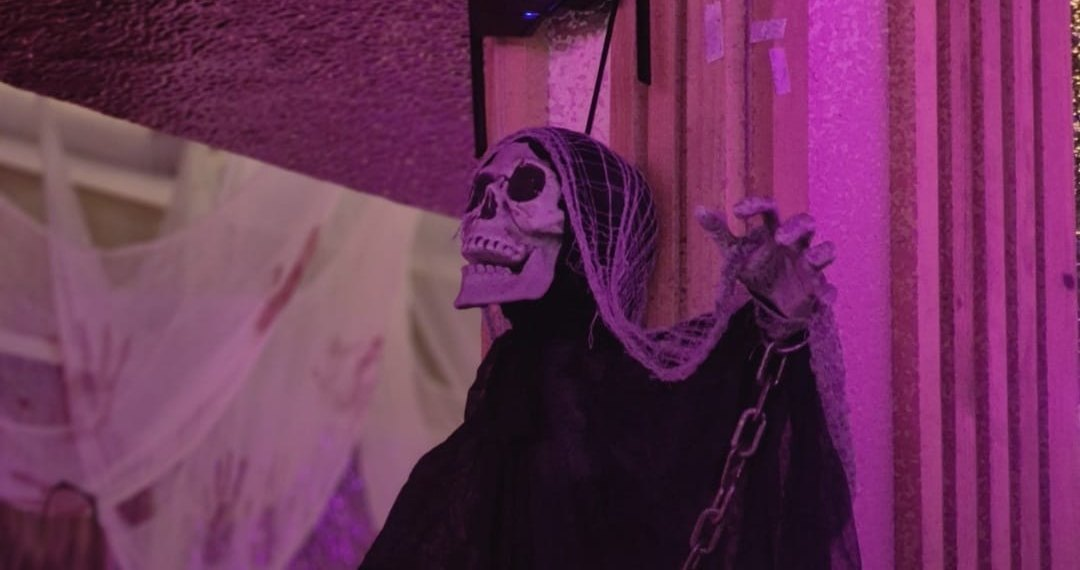
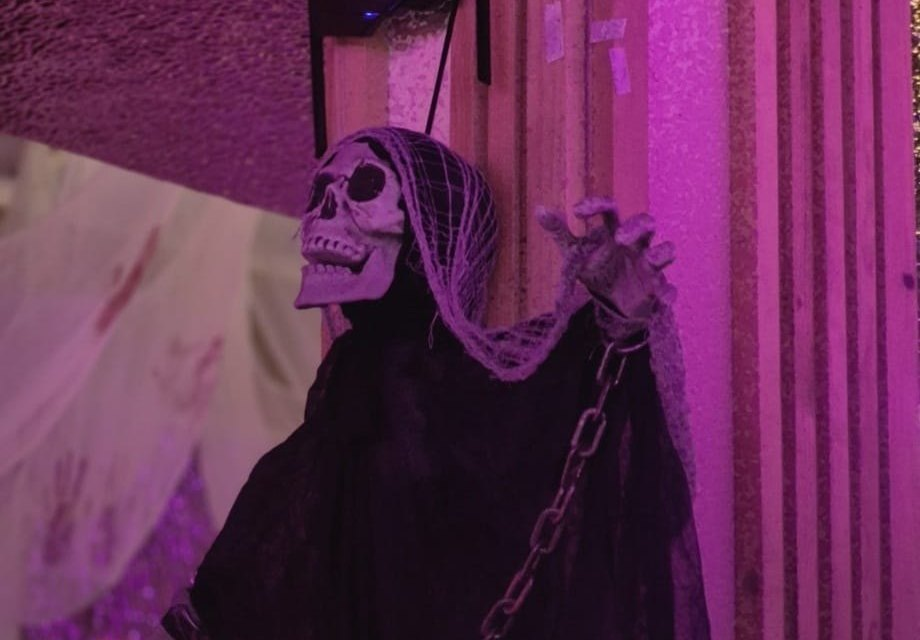
Fix preloader text overlap and image cropping; add new photos
- Preloader: only one status phrase is visible before JS loads (all five
  used to stack on slow connections), and phrase swaps no longer overlap
  when the counter jumps
- Re-crop the slide photos taller so subjects sit mid-frame, and add a
  Photo component that applies a per-image focal point (object-position)
  so faces stay in view in any container shape
- Add two new clean courtyard photos (photo-08/09) for the contact,
  team, career, services, case study and article images

diff --git a/components/sections/AboutBlocks.tsx b/components/sections/AboutBlocks.tsx
@@ -1,7 +1,7 @@
 "use client";
 
 import { useRef } from "react";
-import Image from "next/image";
+import Photo from "@/components/ui/Photo";
 import { gsap, useGSAP, reducedMotion } from "@/lib/gsap";
 import { BELIEFS } from "@/lib/content";
 import { SectionHead } from "../ui/PageHeader";
@@ -48,7 +48,7 @@ export function Impact() {
             </div>
           ))}
           <div className="impact__glass fx-up">
-            <Image src="/img/crop-07.jpg" alt="" fill sizes="(max-width: 900px) 100vw, 30vw" />
+            <Photo src="/img/crop-07.jpg" alt="" fill sizes="(max-width: 900px) 100vw, 30vw" />
             <div><b>Floor to feed</b><span>We build the moment, then we make it famous.</span></div>
           </div>
         </div>
@@ -60,7 +60,7 @@ export function Impact() {
 const TEAM = [
   { img: "/img/crop-02.jpg", role: "Strategy & planning" },
   { img: "/img/crop-06.jpg", role: "Experience & set-up" },
-  { img: "/img/crop-07.jpg", role: "Guest moments" },
+  { img: "/img/photo-09.jpg", role: "Guest moments" },
   { img: "/img/crop-03.jpg", role: "Styling & details" },
 ];
 
@@ -78,7 +78,7 @@ export function Team() {
           </div>
           {TEAM.map((t) => (
             <figure className="team__card fx-up" key={t.role}>
-              <div className="team__img"><Image src={t.img} alt={t.role} fill sizes="(max-width: 900px) 50vw, 20vw" /></div>
+              <div className="team__img"><Photo src={t.img} alt={t.role} fill sizes="(max-width: 900px) 50vw, 20vw" /></div>
               <figcaption><b>Team ARK</b><span>{t.role}</span></figcaption>
             </figure>
           ))}
@@ -102,7 +102,7 @@ export function Beliefs() {
   );
   return (
     <section className="beliefs" ref={root} data-theme="dark">
-      <div className="beliefs__bg"><Image src="/img/crop-05.jpg" alt="" fill sizes="100vw" /></div>
+      <div className="beliefs__bg"><Photo src="/img/crop-05.jpg" alt="" fill sizes="100vw" /></div>
       <div className="container beliefs__in">
         <div className="beliefs__head">
           <SectionHead title="What We Believe" align="split" sub="Five principles behind every venue we work with." />

diff --git a/lib/content.ts b/lib/content.ts
@@ -165,7 +165,7 @@ export const SERVICES: Service[] = [
     slug: "launches-relaunches",
     title: "Launches & Relaunches",
     category: "Strategy Service",
-    img: "/img/crop-07.jpg",
+    img: "/img/photo-08.jpg",
     lead: "Full house on day one",
     text: "New opening or a fresh chapter: one playbook from pre-launch buzz to a full house on day one.",
     items: ["Pre-launch teasers", "Influencer previews", "Opening-night experience"],
@@ -261,7 +261,7 @@ export const WORK: Work[] = [
     category: "Production",
     period: "Halloween season",
     img: "/img/crop-06.jpg",
-    cover: "/img/crop-07.jpg",
+    cover: "/img/photo-09.jpg",
     summary:
       "Good experiences take a team. A look at the planning, set-up and the people who turned the concept into a finished venue.",
     facts: [
@@ -278,7 +278,7 @@ export const WORK: Work[] = [
       "Set-up: our team handled the build, from the entrance installation to the last bat on the wall.",
       "Hand-over: a quick walkthrough so Vayu's staff knew the story behind the theme and could share it with guests.",
     ],
-    gallery: ["/img/crop-06.jpg", "/img/crop-02.jpg", "/img/crop-07.jpg"],
+    gallery: ["/img/crop-06.jpg", "/img/crop-02.jpg", "/img/photo-08.jpg"],
     outcome: ["A smooth opening with zero last-minute scrambling, and a team that could focus on hospitality."],
   },
 ];
@@ -418,7 +418,7 @@ export const POSTS: Post[] = [
     title: "From Floor to Feed: Turning Experiences into Content",
     excerpt: "Why the best hospitality content starts with something real happening on the floor.",
     category: "Content",
-    img: "/img/crop-07.jpg",
+    img: "/img/photo-08.jpg",
     read: "5 min read",
     body: [
       { h: "Content can't fix an empty moment", p: ["You can't edit your way to a great experience. If nothing special is happening in the venue, the feed will show it."] },

diff --git a/app/services/page.tsx b/app/services/page.tsx
@@ -1,5 +1,5 @@
 import type { Metadata } from "next";
-import Image from "next/image";
+import Photo from "@/components/ui/Photo";
 import PageHeader from "@/components/ui/PageHeader";
 import Intro from "@/components/sections/Intro";
 import ServicesList from "@/components/sections/ServicesList";
@@ -24,13 +24,13 @@ export default function ServicesPage() {
       <section className="bento">
         <div className="container bento__grid">
           <article className="bento__card bento__card--img fx-up tilt">
-            <Image src="/img/crop-04.jpg" alt="" fill sizes="(max-width: 900px) 100vw, 33vw" />
+            <Photo src="/img/crop-04.jpg" alt="" fill sizes="(max-width: 900px) 100vw, 33vw" />
             <div className="bento__shade" />
             <span className="bento__tag">Experience insight <i>↗</i></span>
             <div className="bento__bottom"><b>Floor to feed</b><span>Moments designed on site, then told online.</span></div>
           </article>
           <article className="bento__card bento__card--img fx-up tilt">
-            <Image src="/img/crop-02.jpg" alt="" fill sizes="(max-width: 900px) 100vw, 33vw" />
+            <Photo src="/img/crop-02.jpg" alt="" fill sizes="(max-width: 900px) 100vw, 33vw" />
             <div className="bento__shade" />
             <span className="bento__tag">Strategy <i>↗</i></span>
             <div className="bento__bottom"><b>Brand & venue growth</b><span>Discover the details, insights and USP that drive real bookings.</span></div>

diff --git a/components/sections/CareerBlocks.tsx b/components/sections/CareerBlocks.tsx
@@ -1,7 +1,7 @@
 "use client";
 
 import { useRef } from "react";
-import Image from "next/image";
+import Photo from "@/components/ui/Photo";
 import { gsap, useGSAP, reducedMotion } from "@/lib/gsap";
 import { JOBS } from "@/lib/content";
 import { SectionHead } from "../ui/PageHeader";
@@ -31,7 +31,7 @@ export function Positions() {
 const LIFE = [
   { img: "/img/crop-06.jpg", title: "On the floor", text: "We set up what we design. You'll be there when the lights go on." },
   { img: "/img/crop-02.jpg", title: "Ideas first", text: "Every project starts with imagination, a laptop and a good view." },
-  { img: "/img/crop-07.jpg", title: "Close to guests", text: "We talk to the people we're designing for, not just about them." },
+  { img: "/img/photo-08.jpg", title: "Close to guests", text: "We talk to the people we're designing for, not just about them." },
 ];
 
 export function LifeAtArk() {
@@ -59,7 +59,7 @@ export function LifeAtArk() {
         <div className="life__cards">
           {LIFE.map((l) => (
             <figure className="life__card" key={l.title}>
-              <div className="life__img"><Image src={l.img} alt={l.title} fill sizes="(max-width: 900px) 100vw, 45vw" /></div>
+              <div className="life__img"><Photo src={l.img} alt={l.title} fill sizes="(max-width: 900px) 100vw, 45vw" /></div>
               <figcaption><b>{l.title}</b><span>{l.text}</span></figcaption>
             </figure>
           ))}

diff --git a/components/sections/Moments.tsx b/components/sections/Moments.tsx
@@ -1,7 +1,7 @@
 "use client";
 
 import { useRef } from "react";
-import Image from "next/image";
+import Photo from "@/components/ui/Photo";
 import { gsap, useGSAP, reducedMotion } from "@/lib/gsap";
 import { MOMENTS } from "@/lib/content";
 import SplitReveal from "../ui/SplitReveal";
@@ -33,7 +33,7 @@ export default function Moments() {
 
   const card = (m: (typeof MOMENTS)[number], i: number) => (
     <figure className="mcard" key={m.line}>
-      <div className="mcard__img"><Image src={m.img} alt={m.line} fill sizes="(max-width: 900px) 80vw, 320px" /></div>
+      <div className="mcard__img"><Photo src={m.img} alt={m.line} fill sizes="(max-width: 900px) 80vw, 320px" /></div>
       <figcaption>
         <span className="mcard__stars" aria-hidden="true">✦ ✦ ✦ ✦ ✦</span>
         <b>{m.line}</b>
@@ -44,7 +44,7 @@ export default function Moments() {
 
   return (
     <section className="moments" ref={root} data-theme="dark">
-      <div className="moments__bg"><Image src="/img/crop-04.jpg" alt="" fill sizes="100vw" /></div>
+      <div className="moments__bg"><Photo src="/img/crop-04.jpg" alt="" fill sizes="100vw" /></div>
       <div className="container moments__grid">
         <div className="moments__col moments__col--a">{MOMENTS.filter((_, i) => i % 2 === 0).map((m) => card(m, MOMENTS.indexOf(m)))}</div>
         <div className="moments__center">

diff --git a/components/sections/BlogGrid.tsx b/components/sections/BlogGrid.tsx
@@ -1,4 +1,4 @@
-import Image from "next/image";
+import Photo from "@/components/ui/Photo";
 import Link from "next/link";
 import { POSTS } from "@/lib/content";
 import { SectionHead } from "../ui/PageHeader";
@@ -23,7 +23,7 @@ export default function BlogGrid({ variant = "home" }: { variant?: "home" | "all
           <Btn href="/blog" variant="pink" size="sm" arrow>See all articles</Btn>
         </SectionHead>
         <Link href={`/blog/${feat.slug}`} className="post-feat fx-up" data-cursor="Read">
-          <div className="post-feat__img"><Image src={feat.img} alt="" fill sizes="(max-width: 900px) 100vw, 45vw" /></div>
+          <div className="post-feat__img"><Photo src={feat.img} alt="" fill sizes="(max-width: 900px) 100vw, 45vw" /></div>
           <div className="post-feat__body">
             <span className="chip"><i />{feat.category}</span>
             <h3>{feat.title}</h3>
@@ -43,7 +43,7 @@ function Card({ p }: { p: (typeof POSTS)[number] }) {
   return (
     <Link href={`/blog/${p.slug}`} className="post fx-up" data-cursor="Read">
       <div className="post__img">
-        <Image src={p.img} alt="" fill sizes="(max-width: 900px) 100vw, 40vw" />
+        <Photo src={p.img} alt="" fill sizes="(max-width: 900px) 100vw, 40vw" />
         <span className="chip"><i />{p.category}</span>
       </div>
       <h3>{p.title}</h3>

diff --git a/app/work/[slug]/page.tsx b/app/work/[slug]/page.tsx
@@ -1,5 +1,5 @@
 import type { Metadata } from "next";
-import Image from "next/image";
+import Photo from "@/components/ui/Photo";
 import Link from "next/link";
 import { notFound } from "next/navigation";
 import { WORK } from "@/lib/content";
@@ -38,7 +38,7 @@ export default async function WorkDetail({ params }: Params) {
         </div>
         <div className="container">
           <div className="case-cover fx-clip">
-            <Image src={w.cover} alt={w.title} fill priority sizes="(max-width: 1360px) 100vw, 1300px" data-parallax="8" />
+            <Photo src={w.cover} alt={w.title} fill priority sizes="(max-width: 1360px) 100vw, 1300px" data-parallax="6" />
           </div>
         </div>
       </section>
@@ -78,7 +78,7 @@ export default async function WorkDetail({ params }: Params) {
           <div className={`case-gallery${portrait ? " case-gallery--portrait" : ""}`}>
             {w.gallery.map((g) => (
               <div className="case-gallery__item fx-scale" key={g}>
-                <Image src={g} alt="" fill sizes="(max-width: 900px) 100vw, 33vw" />
+                <Photo src={g} alt="" fill sizes="(max-width: 900px) 100vw, 33vw" />
               </div>
             ))}
           </div>

diff --git a/components/shell/Preloader.tsx b/components/shell/Preloader.tsx
@@ -42,12 +42,18 @@ export default function Preloader({ onReveal, onDone }: Props) {
       let cancelled = false;
       let current = -1;
 
-      gsap.set(phrases, { yPercent: 110 });
+      gsap.set(phrases, { yPercent: 110, opacity: 0 });
 
+      // only the outgoing and incoming phrase may move; a still-pending delayed slide-in
+      // from an earlier phrase would otherwise land on top of the new one
       const showPhrase = (i: number) => {
         if (i === current) return;
-        if (current >= 0) gsap.to(phrases[current], { yPercent: -110, duration: 0.45, ease: "expo.in" });
-        gsap.fromTo(phrases[i], { yPercent: 110 }, { yPercent: 0, duration: 0.6, ease: "expo.out", delay: current >= 0 ? 0.2 : 0 });
+        gsap.killTweensOf(phrases);
+        phrases.forEach((p, k) => {
+          if (k !== current && k !== i) gsap.set(p, { yPercent: 110, opacity: 0 });
+        });
+        if (current >= 0) gsap.to(phrases[current], { yPercent: -110, opacity: 0, duration: 0.28, ease: "power2.in" });
+        gsap.fromTo(phrases[i], { yPercent: 110, opacity: 0 }, { yPercent: 0, opacity: 1, duration: 0.55, ease: "expo.out", delay: current >= 0 ? 0.3 : 0 });
         current = i;
       };
 

diff --git a/app/globals.css b/app/globals.css
@@ -240,7 +240,8 @@ html.on-dark .nav__burger, .menu-open .nav__burger { background: var(--pink); }
 .pre__sub b { font-weight: 500; letter-spacing: .5em; margin-right: -.5em; }
 .pre__sub .rule { width: 0; height: 1px; background: var(--brown); }
 .pre__status { position: relative; height: 1.5em; width: min(90vw, 520px); overflow: hidden; font-family: var(--f-serif); font-style: italic; font-size: clamp(18px, 2vw, 26px); color: var(--bamboo); text-align: center; margin-top: 6px; }
-.pre__status span { position: absolute; left: 0; right: 0; top: 0; }
+.pre__status span { position: absolute; left: 0; right: 0; top: 0; opacity: 0; }
+.pre__status span:first-child { opacity: 1; } /* before JS runs, only one phrase may show */
 .pre__bottom { display: flex; align-items: flex-end; gap: clamp(16px, 3vw, 40px); }
 .pre__foot { font-size: 11px; font-weight: 700; letter-spacing: .2em; text-transform: uppercase; color: var(--muted); white-space: nowrap; margin-bottom: 14px; }
 .pre__bar { flex: 1; height: 2px; background: var(--line); position: relative; overflow: hidden; margin-bottom: 20px; border-radius: 2px; }

diff --git a/components/ui/Photo.tsx b/components/ui/Photo.tsx
@@ -1,0 +1,21 @@
+import Image, { type ImageProps } from "next/image";
+
+// Focal point of each photo (object-position), so faces and subjects stay in frame
+// whatever shape the container is. Add an entry when you add a photo.
+const FOCUS: Record<string, string> = {
+  "/img/crop-01.jpg": "62% 70%", // banana leaves at night
+  "/img/crop-02.jpg": "42% 62%", // planning on the laptop
+  "/img/crop-03.jpg": "45% 65%", // skull + chalkboard
+  "/img/crop-04.jpg": "45% 38%", // reaper
+  "/img/crop-05.jpg": "55% 45%", // thatch roof
+  "/img/crop-06.jpg": "45% 70%", // team at the Vayu sign
+  "/img/crop-07.jpg": "50% 35%", // lantern wall
+  "/img/photo-08.jpg": "40% 56%", // briefing the chef
+  "/img/photo-09.jpg": "40% 56%",
+};
+
+/** next/image with the photo's focal point applied. */
+export default function Photo({ style, ...props }: ImageProps) {
+  const focus = typeof props.src === "string" ? FOCUS[props.src] : undefined;
+  return <Image {...props} style={focus ? { objectPosition: focus, ...style } : style} />;
+}

diff --git a/components/shell/Footer.tsx b/components/shell/Footer.tsx
@@ -2,7 +2,7 @@
 
 import { useRef } from "react";
 import Link from "next/link";
-import Image from "next/image";
+import Photo from "@/components/ui/Photo";
 import { usePathname } from "next/navigation";
 import { gsap, useGSAP, reducedMotion } from "@/lib/gsap";
 import { CONTACT, NAV, ALL_PAGES } from "@/lib/content";
@@ -30,7 +30,7 @@ export default function Footer() {
         <div className="footer__top">
           <div className="footer__brand">
             <Link href="/" className="footer__logo">
-              ARK<Image src="/img/bamboo.png" alt="" width={143} height={258} /><small>Hospitality</small>
+              ARK<Photo src="/img/bamboo.png" alt="" width={143} height={258} /><small>Hospitality</small>
             </Link>
             <p>ARK is a hospitality marketing & experience studio. We analyse every detail, find your USP and build the brand, the moments and the content that sell it.</p>
           </div>

diff --git a/components/sections/ContactBlocks.tsx b/components/sections/ContactBlocks.tsx
@@ -1,7 +1,7 @@
 "use client";
 
 import { useState, type FormEvent } from "react";
-import Image from "next/image";
+import Photo from "@/components/ui/Photo";
 import { useSearchParams } from "next/navigation";
 import { CONTACT, SERVICE_OPTIONS } from "@/lib/content";
 import { useEnquiry, formFields } from "@/lib/use-enquiry";
@@ -63,7 +63,7 @@ export function ContactForm() {
           {status === "sent" && <p className="form-msg">Thanks! Your message reached ARK. We reply within 24 hours.</p>}
         </form>
         <div className="contact__img fx-clip">
-          <Image src="/img/crop-02.jpg" alt="ARK planning a venue experience" fill priority sizes="(max-width: 900px) 100vw, 45vw" data-parallax="6" />
+          <Photo src="/img/photo-08.jpg" alt="ARK briefing a chef before a theme night" fill priority sizes="(max-width: 900px) 100vw, 45vw" data-parallax="6" />
         </div>
       </div>
     </section>
